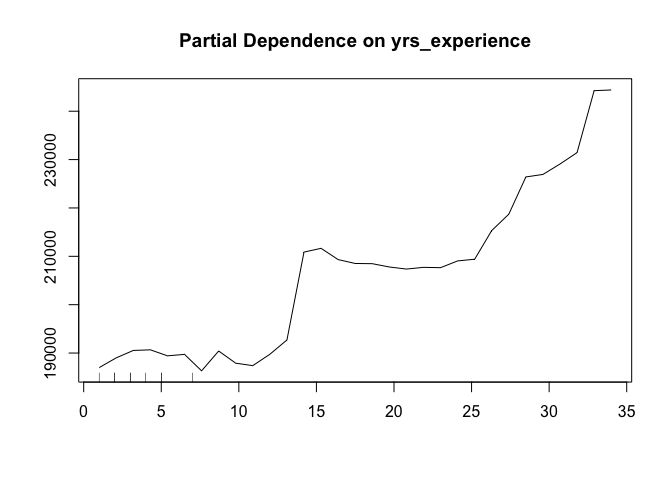
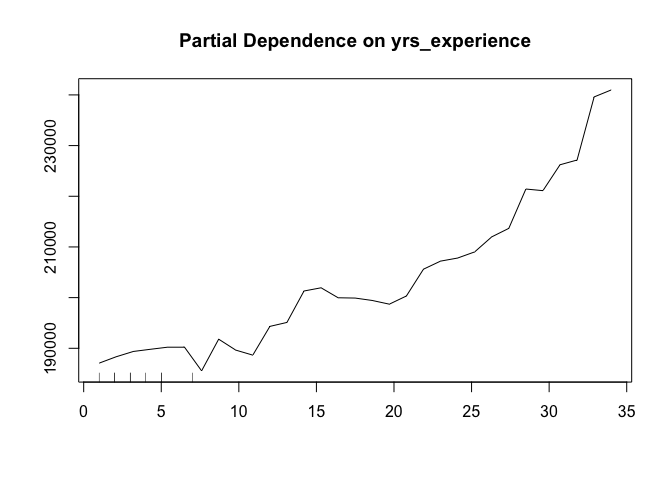
Add files via upload

diff --git a/Diversity in Workplace/Diversity_in_the_Workplace.md b/Diversity in Workplace/Diversity_in_the_Workplace.md
@@ -1,7 +1,7 @@
 Diversity in the Workplace
 ================
 Siddhartha Jetti
-May 30, 2019
+5/30/2019
 
 # Goal
 
@@ -388,10 +388,10 @@ rf.fit
     ##                      Number of trees: 250
     ## No. of variables tried at each split: 3
     ## 
-    ##           Mean of squared residuals: 5351756769
-    ##                     % Var explained: 32.72
-    ##                        Test set MSE: 5462758437
-    ##                     % Var explained: 30.33
+    ##           Mean of squared residuals: 5414222079
+    ##                     % Var explained: 31.95
+    ##                        Test set MSE: 5303848842
+    ##                     % Var explained: 32.3
 
 ``` r
 # Visualize Important variables
@@ -418,10 +418,10 @@ rf.fit2
     ##                      Number of trees: 250
     ## No. of variables tried at each split: 3
     ## 
-    ##           Mean of squared residuals: 7892747518
-    ##                     % Var explained: 0.78
-    ##                        Test set MSE: 7934348292
-    ##                     % Var explained: -1.2
+    ##           Mean of squared residuals: 7977232438
+    ##                     % Var explained: -0.27
+    ##                        Test set MSE: 7746336367
+    ##                     % Var explained: 1.12
 
 ``` r
 # Visualize Important variables
@@ -429,6 +429,7 @@ varImpPlot(rf.fit2)
 ```
 
 ![](Diversity_in_the_Workplace_files/figure-gfm/unnamed-chunk-12-1.png)<!-- -->
+
 After dropping the dept variable, the variance explained drops
 dramatically. So rf.fit is indeed optimal model.
 
